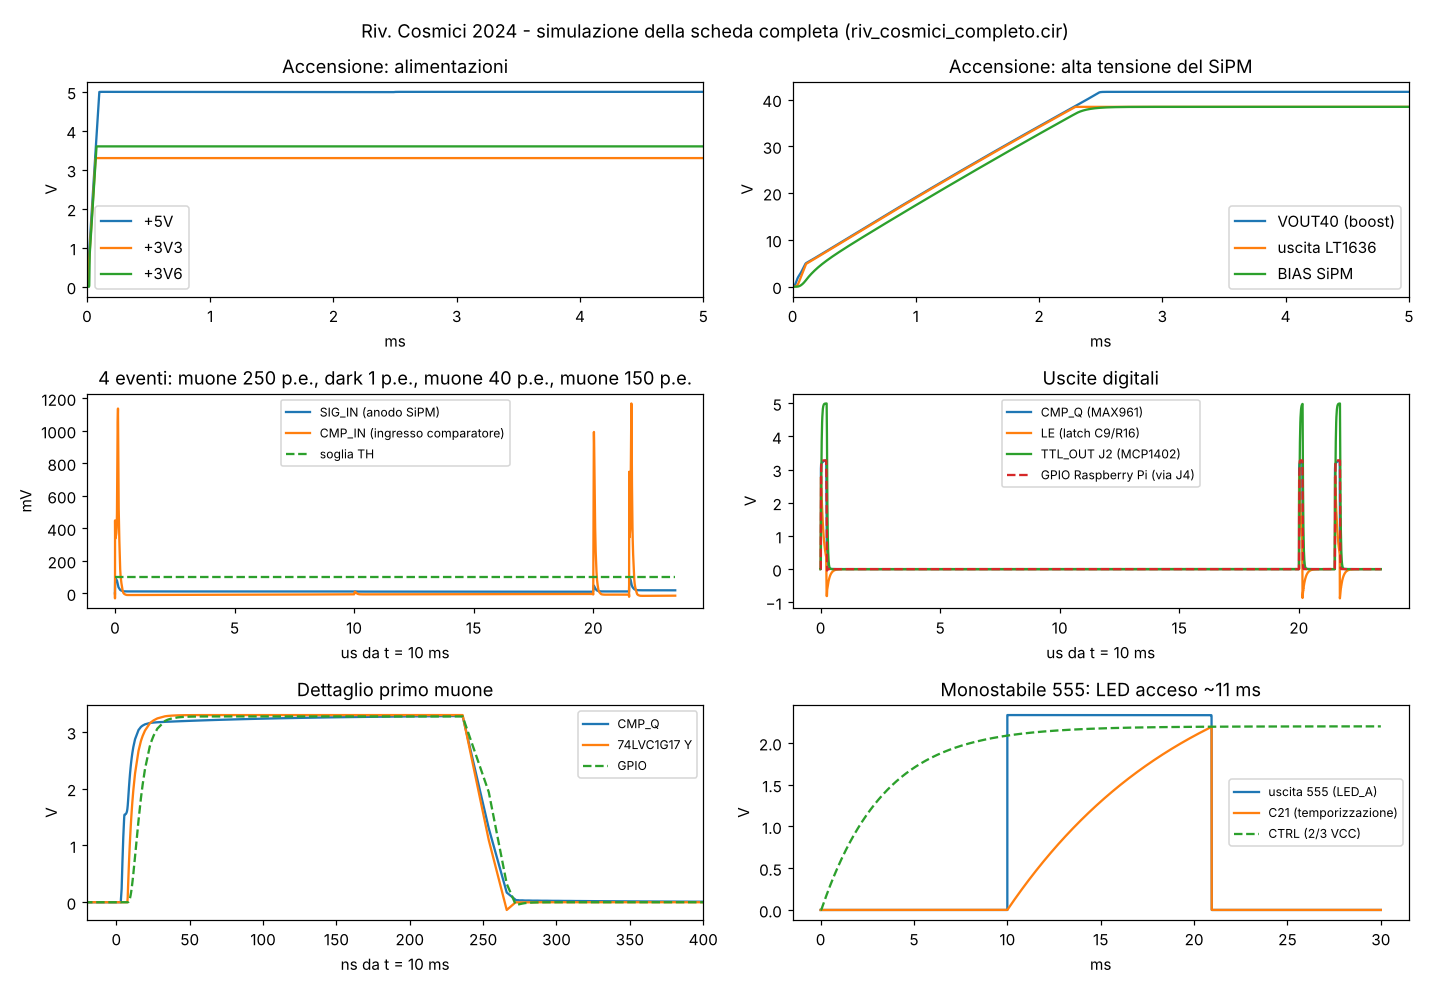
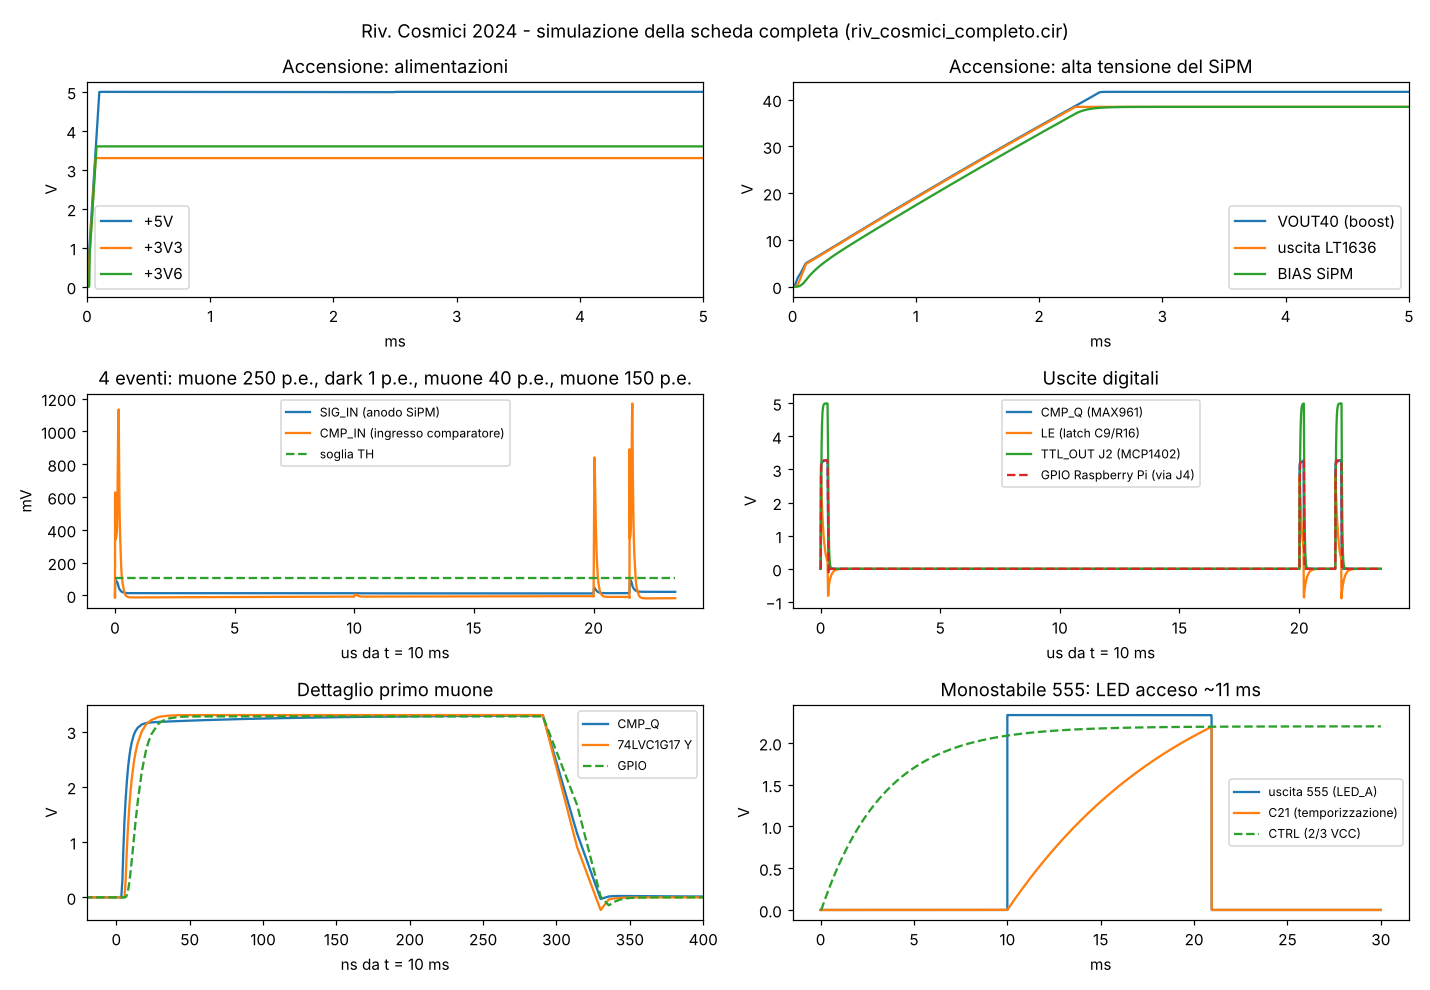
SiPM AFBR-S4N22P014M dal datasheet nella simulazione completa
- Modello SiPM con i valori Broadcom: VBD 32,5 V, 160 pF, recharge 55 ns,
  guadagno 7,3e6 a 12 V OV scalato sulla sovratensione (~0,58 pC/p.e.).
- LT1636: diodi di clamp ideali senza deriva termica (a 50 C il modello
  divergeva).
- Documentati mV/p.e., soglia in fotoelettroni, campo di V1 e la
  compensazione termica di D1 (+28 mV/C contro ~30 mV/C del SiPM).

Claude-Session: https://claude.ai/code/session_017fc9yPsNewCQrMK8R1c8Ls

diff --git a/simulation/ltspice/gen_ltspice.py b/simulation/ltspice/gen_ltspice.py
@@ -146,8 +146,9 @@ def build_elements():
     a, b = conn["J1"]       # 1 = anodo/segnale, 2 = catodo/bias (calza)
     E["SIPM"] = El("SIPM", "X", [a, b], "SIPM", "riv_SIPM", ["A", "K"],
                    line="NPE1={NPE_EV1} T1={T_EV1} NPE2={NPE_EV2} T2={T_EV2} "
-                        "NPE3={NPE_EV3} T3={T_EV3} NPE4={NPE_EV4} T4={T_EV4} CSIPM={CSIPM}",
-                   note="J1: SiPM AFBR-S4N22P014M fuori scheda (cavo Fileca)")
+                        "NPE3={NPE_EV3} T3={T_EV3} NPE4={NPE_EV4} T4={T_EV4} "
+                        "CSIPM={CSIPM} QPE={QPE} TAU={TAUSIPM}",
+                   note="J1: SiPM Broadcom AFBR-S4N22P014M fuori scheda (cavo Fileca)")
     a, b = conn["J2"]
     E["RLJ2"] = El("RLJ2", "R", [a, b], "10k", "riv_R", ["1", "2"], note="J2: carico TTL")
     E["CLJ2"] = El("CLJ2", "C", [a, b], "30p", "riv_C", ["1", "2"], note="J2: carico TTL")
@@ -199,11 +200,16 @@ HEADER = """\
 *   POS piu' alto = cursore verso D1 = bias piu' alto. 0,76 -> ~38,4 V
 .param V1_POS=0.76
 * V2 (soglia): frazione di pista dal pin 1 (lato R19, alto) al cursore.
-*   soglia ~ 1,286 V * (1 - V2_POS).  0,92 -> ~100 mV (~3 p.e.)
+*   soglia ~ 1,286 V * (1 - V2_POS).  0,92 -> ~104 mV (~6 p.e.)
 .param V2_POS=0.92
-* capacita' terminale del SiPM (dal datasheet del sensore usato): divide la
-* carica con l'ingresso dell'amplificatore e cambia i mV per fotoelettrone
-.param CSIPM=100p
+* SiPM Broadcom AFBR-S4N22P014M (Farnell 4351470), dal datasheet:
+*   VBD = 32,5 V (32..33 V), C terminale = 160 pF, recharge = 55 ns,
+*   guadagno 7,3e6 a 12 V di sovratensione (cresce ~linearmente con VOV).
+*   VOV = BIAS - VBD: con BIAS = 38,44 V (V1_POS = 0,76) VOV = 5,94 V
+*   -> guadagno ~3,6e6 -> ~0,58 pC per fotoelettrone.
+.param VBD=32.5 G12=7.3Meg VOV=5.94
+.param QPE={1.602e-19*G12*VOV/12}
+.param CSIPM=160p TAUSIPM=55n
 * eventi nel SiPM: istante [s] e numero di fotoelettroni (0,5 pC/p.e.)
 .param T_EV1=10m     NPE_EV1=250
 .param T_EV2=10.01m  NPE_EV2=1

diff --git a/simulation/ltspice/LEGGIMI.md b/simulation/ltspice/LEGGIMI.md
@@ -34,8 +34,10 @@ Parametri principali (direttive `.param` in fondo allo schema):
 | Parametro | Significato | Default |
 |---|---|---|
 | `V1_POS` | posizione del trimmer V1 (bias SiPM) | 0,76 → 38,4 V |
-| `V2_POS` | posizione del trimmer V2 (soglia) | 0,92 → ~104 mV |
-| `CSIPM` | capacità del SiPM (dal suo datasheet) | 100 pF |
+| `V2_POS` | posizione del trimmer V2 (soglia) | 0,92 → ~104 mV (~7 p.e.) |
+| `VBD`, `G12`, `VOV` | SiPM AFBR-S4N22P014M: breakdown, guadagno a 12 V OV, sovratensione | 32,5 V, 7,3·10⁶, 5,94 V |
+| `QPE` | carica per fotoelettrone = q·G12·VOV/12 | ~0,58 pC |
+| `CSIPM`, `TAUSIPM` | capacità terminale e recharge del SiPM | 160 pF, 55 ns |
 | `T_EVn`, `NPE_EVn` | istante e fotoelettroni dei 4 eventi | muone 250, dark 1, muone 40, muone 150 p.e. |
 
 ## Cosa si vede
@@ -45,10 +47,15 @@ Parametri principali (direttive `.param` in fondo allo schema):
 - **Accensione**: +5V in 100 µs; +3V3 e +3V6 subito dopo; il boost carica VOUT40 a
   41,65 V in ~2,4 ms e l'LT1636 porta BIAS a 38,44 V.
 - **Muone 250 p.e.**: ~1,13 V all'ingresso del comparatore (saturato), CMP_Q 3,3 V per
-  236 ns, TTL 5 V su J2, 3,27 V sul GPIO del Pi con 8 ns di ritardo.
-- **Dark count 1 p.e.**: 11 mV, sotto soglia → nessun impulso.
+  300 ns, TTL 5 V su J2, 3,27 V sul GPIO del Pi con 8 ns di ritardo.
+- **Dark count 1 p.e.**: ~10 mV, sotto soglia → nessun impulso.
 - **Muone 40 p.e.** e **muone 150 p.e. a 1,5 µs**: due impulsi distinti.
 - **LED**: acceso 10,9 ms dal 555 (T = 1,1·R20·C21).
+
+Il SiPM simulato è il Broadcom **AFBR-S4N22P014M** (2×2 mm, 2464 celle, Farnell
+4351470), con i valori del datasheet. Per la temperatura usa `.options temp=…` (o
+`.temp` in LTspice): la compensazione di D1 tiene la sovratensione a 5,85–5,94 V da
+−10 a +50 °C.
 
 ## Verifica automatica (ngspice)
 
@@ -69,5 +76,7 @@ python verifica_ltspice.py   # 1) .asc == .cir  2) tutti i componenti KiCad pres
   e per la sequenza di accensione, non per il rumore del boost.
 - **Stabilità dei LDO** non modellata (vedi `hardware/PRIMA_DI_ORDINARE.md` sui
   condensatori d'uscita).
+- I regolatori comportamentali non hanno deriva termica: nelle simulazioni in
+  temperatura varia solo ciò che dipende da diodi e transistor (D1, Q1, Q2…).
 - Transistor del front-end con parametri tipici (±30% sul guadagno reale); il cavo
   Fileca non è modellato.

diff --git a/hardware/PRIMA_DI_ORDINARE.md b/hardware/PRIMA_DI_ORDINARE.md
@@ -51,10 +51,28 @@ Nessun valore del circuito originale INFN è stato cambiato.
    dimensioni dei pad sul datasheet della parte che si ordina.
 4. **J4**: il footprint è un header 2,54 mm; il LEMO va a pannello e si collega con un
    cavetto. **J2 (TTL_OUT) esce a 5 V: non collegarlo al Raspberry Pi.**
-5. **Capacità del SiPM**: dipende dal sensore e decide i mV per fotoelettrone vicino
-   alla soglia (da ~32 mV/p.e. senza capacità a ~19 mV/p.e. con 100 pF). I muoni
-   (≥ 80 p.e.) saturano comunque a ~1,1 V e vengono sempre contati. La soglia (V2)
-   va tarata sulla scheda vera guardando il singolo fotoelettrone all'oscilloscopio.
+5. **Soglia (V2) con il SiPM AFBR-S4N22P014M.** Simulando il sensore vero
+   (Broadcom, Farnell 4351470: VBD 32,5 V, 160 pF, recharge 55 ns, guadagno
+   7,3·10⁶ a 12 V di sovratensione) si ha, al bias di 38,4 V (sovratensione ~5,9 V,
+   guadagno ~3,6·10⁶):
+
+   | fotoelettroni | picco al comparatore |
+   |---|---|
+   | 1 | ~10 mV |
+   | 3 | ~40 mV |
+   | 5 | ~71 mV |
+   | 10 | ~156 mV |
+   | muone (≥ 80 p.e.) | ~1,0–1,2 V (saturato) |
+
+   Con V2 a metà corsa bassa (TH ≈ 104 mV) la soglia è a **~7 p.e.**: i dark count
+   (1–2 p.e., anche con un po' di crosstalk) sono scartati e i muoni sono tutti
+   contati con ampio margine. Per scendere a ~3 p.e. bastano ~40–50 mV su TH. La
+   taratura finale va fatta sulla scheda vera, guardando CMP_IN all'oscilloscopio.
+6. **Temperatura: il bias si compensa da solo.** La caduta di D1 (−2 mV/°C),
+   moltiplicata dall'LT1636, alza BIAS di **+28 mV/°C**, quasi uguale al coefficiente
+   di VBD del SiPM (~30 mV/°C). Simulando da −10 a +50 °C la sovratensione resta tra
+   5,85 e 5,94 V. Con R3 = 255k (punto 1) a 50 °C il boost ha ancora 0,3 V di margine
+   sopra il bias (39,4 V contro 39,1 V); a temperatura ambiente il margine è ~1 V.
 
 ## Ultimi passi in KiCad (consigliati)
 

diff --git a/simulation/RISULTATI_SIMULAZIONE.md b/simulation/RISULTATI_SIMULAZIONE.md
@@ -166,15 +166,19 @@ modelli SPICE. Transitorio di 30 ms con accensione e 4 eventi a t = 10 ms
 | Corrente dai 5 V | 38 mA |
 | Muone 250 p.e. al comparatore | 1,14 V (saturato) |
 | CMP_Q / TTL J2 / GPIO Pi | 3,28 / 4,99 / 3,27 V |
-| Larghezza impulso al GPIO, ritardo | 236 ns, 8 ns |
-| Dark count 1 p.e. | 11 mV → nessun impulso |
+| Larghezza impulso al GPIO, ritardo | 300 ns, 8 ns |
+| Dark count 1 p.e. | ~10 mV → nessun impulso |
 | Muoni a 1,5 µs | risolti separatamente |
 | LED (555) | 10,9 ms |
 
-Impulso minimo in uscita: **~84 ns**, imposto dal latch C9/R16 del MAX961 (per eventi
-appena sopra soglia). La sensibilità vicino alla soglia dipende dalla capacità del SiPM
-(parametro `CSIPM`): 32 mV/p.e. con capacità trascurabile, 19 mV/p.e. con 100 pF,
-6 mV/p.e. con 600 pF; i muoni saturano comunque a ~1,1–1,2 V.
+SiPM simulato: **Broadcom AFBR-S4N22P014M** (VBD 32,5 V, 160 pF, recharge 55 ns,
+guadagno 7,3·10⁶ a 12 V OV → ~3,6·10⁶ e ~0,58 pC/p.e. a 5,9 V OV). Ampiezza al
+comparatore: 1 p.e. ≈ 10 mV, 3 p.e. ≈ 40 mV, 5 p.e. ≈ 71 mV, 10 p.e. ≈ 156 mV
+(l'amplificatore è leggermente espansivo), muoni saturati a ~1,0–1,2 V. Soglia di
+default 104 mV ≈ 7 p.e. Impulso minimo in uscita **~84 ns** (latch C9/R16).
+
+Temperatura (−10…+50 °C): BIAS sale di +28 mV/°C grazie a D1, contro ~30 mV/°C di
+VBD → sovratensione costante entro 0,1 V (5,85–5,94 V).
 
 Correzione di ricostruzione emersa dal confronto con l'originale: **V2 è un
 potenziometro** (cursore → R17), non un reostato. Il campo della soglia non cambia.
